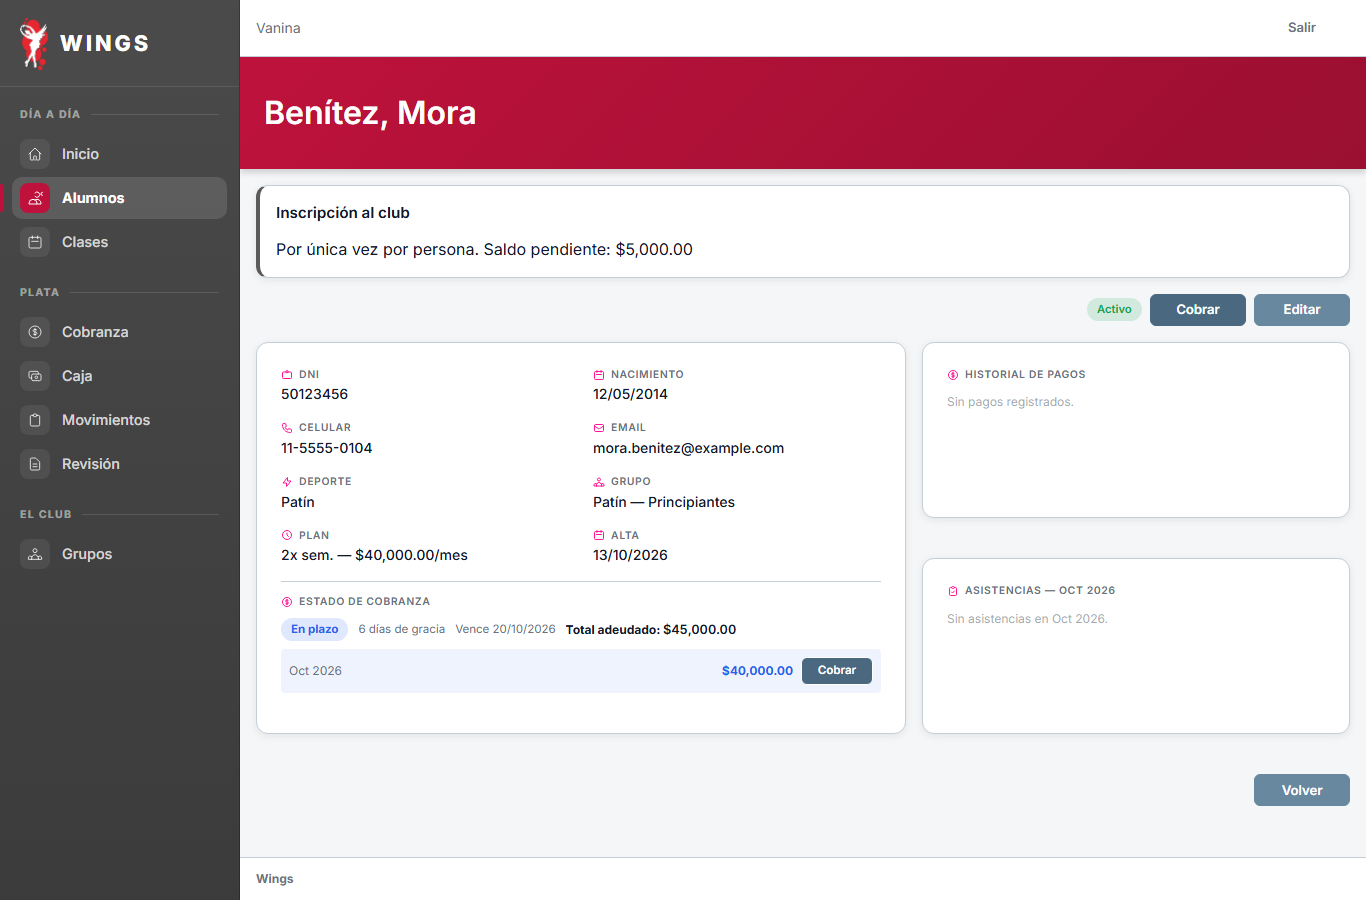
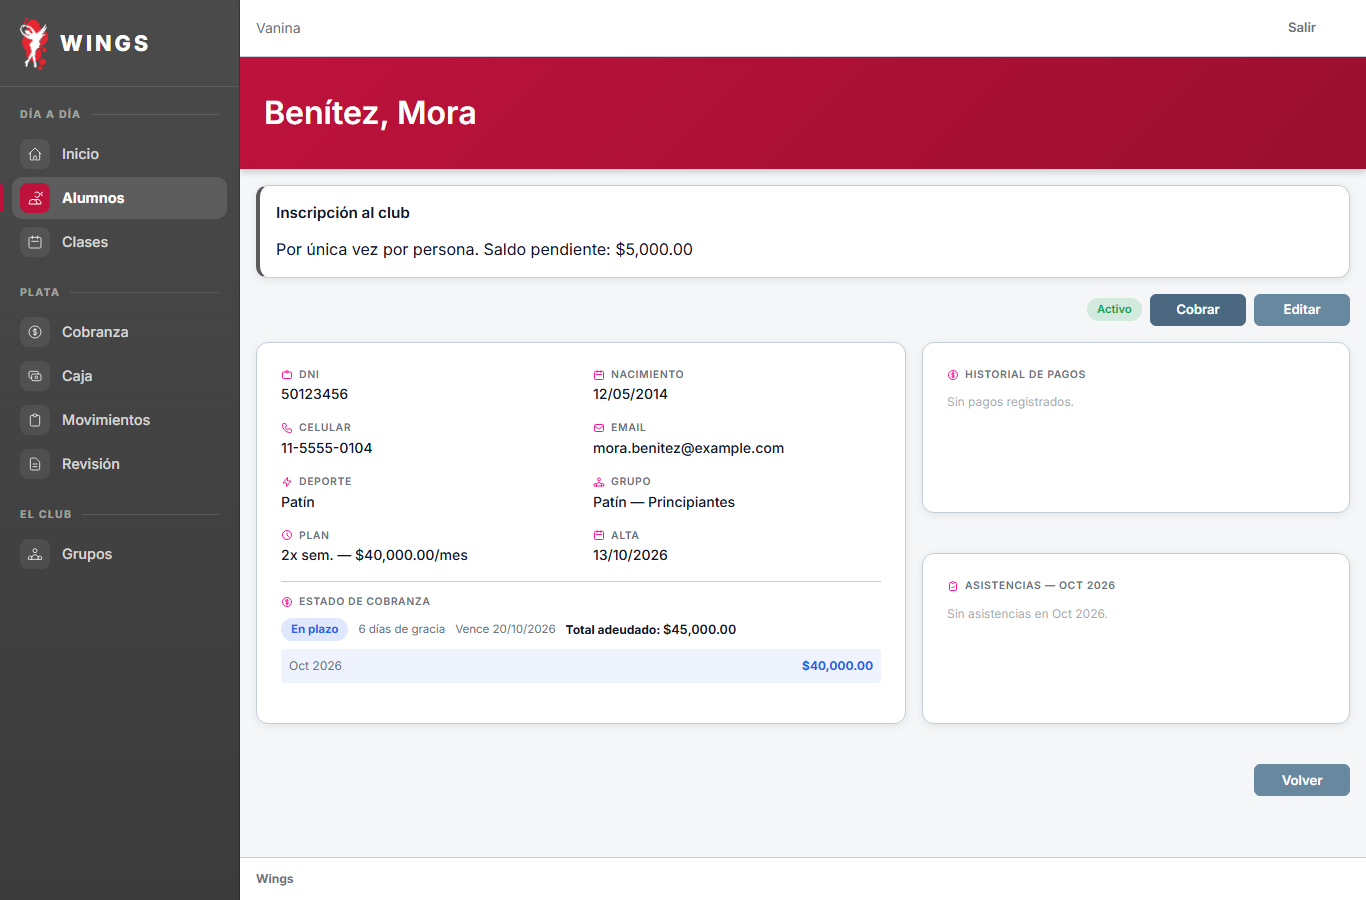
T78: un solo boton Cobrar en la ficha del alumno (Opcion A)
Diseno-autorizado: Carlos pidio T78 y Opcion A el 25/10 (un solo boton Cobrar arriba, sin repetir dentro del recuadro de cuota)

diff --git a/resources/views/alumnos/show.blade.php b/resources/views/alumnos/show.blade.php
@@ -208,18 +208,14 @@
                             {{ \App\Support\FormatoImporte::pesos($saldo) }}
                         </span>
                     </div>
-                    <div class="flex items-center gap-2 justify-end w-full sm:w-auto cobro-acciones-movil acciones-movil">
+                    @php
+                        $puedeCondonarCuota = Auth::user()->isAdmin() && $deuda->estado === \App\Models\DeudaCuota::ESTADO_PENDIENTE;
+                    @endphp
+                    <div class="{{ $puedeCondonarCuota ? 'flex' : 'hidden sm:flex' }} items-center gap-2 justify-end w-full sm:w-auto cobro-acciones-movil acciones-movil">
                         <span class="hidden sm:inline" style="font-size:0.75rem; font-weight:700; color:{{ $ecColor }}; white-space:nowrap;">
                             {{ \App\Support\FormatoImporte::pesos($saldo) }}
                         </span>
-                        @if(!auth()->user()?->isProfesor())
-                        <a href="{{ route('web.caja.cobrar', $alumno->id) }}"
-                           class="ds-btn-row"
-                           style="background:var(--color-btn-primary); color:var(--color-surface); text-decoration:none;">
-                            Cobrar
-                        </a>
-                        @endif
-                        @if(Auth::user()->isAdmin() && $deuda->estado === \App\Models\DeudaCuota::ESTADO_PENDIENTE)
+                        @if($puedeCondonarCuota)
                         <button type="button"
                                 class="ds-btn-row ds-btn-row--dang"
                                 data-abrir-condonar="{{ route('web.deudas.condonar', $deuda->id) }}">
@@ -245,20 +241,17 @@
                         @if((float) $cargo->monto_condonado > 0) · Condonado: {{ \App\Support\FormatoImporte::pesos($cargo->monto_condonado) }} @endif
                     </p>
                 </div>
+                @if(Auth::user()->isAdmin() && ((float) $cargo->monto_condonado > 0 || $cargo->saldo_pendiente > 0))
                 <div class="flex justify-end items-center gap-2 cobro-acciones-movil acciones-movil">
-                    @if($cargo->saldo_pendiente > 0)
-                    <a href="{{ route('web.caja.cobrar', $alumno->id) }}" class="ds-btn-row ds-btn-row--sec">Cobrar</a>
-                    @endif
-                    @if(Auth::user()->isAdmin())
-                        @if((float) $cargo->monto_condonado > 0)
-                        <button type="button" class="ds-btn-row ds-btn-row--sec"
-                                data-abrir-reactivar="{{ route('web.punitorios.reactivar', $cargo->id) }}">Reactivar</button>
-                        @elseif($cargo->saldo_pendiente > 0)
-                        <button type="button" class="ds-btn-row ds-btn-row--dang"
-                                data-abrir-condonar="{{ route('web.punitorios.condonar', $cargo->id) }}">Condonar</button>
-                        @endif
+                    @if((float) $cargo->monto_condonado > 0)
+                    <button type="button" class="ds-btn-row ds-btn-row--sec"
+                            data-abrir-reactivar="{{ route('web.punitorios.reactivar', $cargo->id) }}">Reactivar</button>
+                    @elseif($cargo->saldo_pendiente > 0)
+                    <button type="button" class="ds-btn-row ds-btn-row--dang"
+                            data-abrir-condonar="{{ route('web.punitorios.condonar', $cargo->id) }}">Condonar</button>
                     @endif
                 </div>
+                @endif
             </div>
             @endforeach
         </div>

diff --git a/tests/Feature/DetalleCajaCanceladoYFichaAltaT78Test.php b/tests/Feature/DetalleCajaCanceladoYFichaAltaT78Test.php
@@ -178,22 +178,27 @@ class DetalleCajaCanceladoYFichaAltaT78Test extends TestCase
         $totalFormateado = FormatoImporte::pesos((float) $filaCobranza->deuda_total);
 
         // Alta 13/10 + 7 días de plazo de alta = vence el 20/10/2026; total = $45,000.00.
-        $this->actingAs($this->operativo)
-            ->get(route('web.alumnos.show', $mora->id))
+        // Opción A (Carlos 25/10): un solo botón Cobrar en la barra superior, sin repetir dentro del recuadro de cuota.
+        $respuestaOperativo = $this->actingAs($this->operativo)
+            ->get(route('web.alumnos.show', $mora->id));
+        $respuestaOperativo
             ->assertOk()
             ->assertSee('En plazo')
             ->assertSee('6 días de gracia')
             ->assertSee('Vence 20/10/2026')
             ->assertSee('Total adeudado:')
             ->assertSee($totalFormateado);
+        $this->assertSame(1, substr_count($respuestaOperativo->getContent(), route('web.caja.cobrar', $mora->id)));
 
-        $this->actingAs($this->admin)
-            ->get(route('web.alumnos.show', $mora->id))
+        $respuestaAdmin = $this->actingAs($this->admin)
+            ->get(route('web.alumnos.show', $mora->id));
+        $respuestaAdmin
             ->assertOk()
             ->assertSee('En plazo')
             ->assertSee('Vence 20/10/2026')
             ->assertSee('Total adeudado:')
             ->assertSee($totalFormateado);
+        $this->assertSame(1, substr_count($respuestaAdmin->getContent(), route('web.caja.cobrar', $mora->id)));
     }
 
     public function test_un_alumno_al_dia_no_muestra_vencimiento_ni_total(): void

diff --git a/docs/00-estado/LOG-GEMINI.md b/docs/00-estado/LOG-GEMINI.md
@@ -15,8 +15,8 @@ no son nuevas verificaciones ni nuevas firmas del agente resumido.
 - **Objetivo y resultado:** Implementación de **T78** pedida por Carlos el 25/10/2026 a partir de los Días 4 y 5 de PRU-04. Resultado: **IMPLEMENTADA Y EN `a_verificar`**, con 3 pruebas automatizadas nuevas en `DetalleCajaCanceladoYFichaAltaT78Test` y suite rápida completa en verde.
 - **Cambios realizados:**
   - **1. Motivo del cobro cancelado en Detalle de caja (`resources/views/caja/detalle.blade.php`):** En la columna `Alumno / Obs.` de cada movimiento cancelado se muestra debajo de la descripción tachada `Cancelado: <motivo_cancelacion>`, visible tanto para la operativa como para el dueño (`ADMIN`) en cajas abiertas, cerradas, validadas o rechazadas.
-  - **2. Vencimiento y total en la ficha del alumno nuevo (`app/Http/Controllers/AlumnoWebController.php` y `resources/views/alumnos/show.blade.php`):** `AlumnoWebController::show` obtiene el total adeudado desde `CobranzaEstadoService::saldoDeAlumnos` (mismo número que Cobranza, incluyendo inscripción única por DNI y cuotas) y la fecha de vencimiento en estado `En plazo` desde `limiteDeLaCuota` y `limiteDeAlta` de `CobranzaEstadoService` (sin recalcular en la vista). Para Mora Benítez (alta 13/10, inscripción `$5.000` y octubre `$40.000`) muestra `Vence 20/10/2026` y `Total adeudado: $45,000.00`. Un alumno `Al día` no muestra ni vencimiento ni total.
-- **Pruebas y evidencia:** `DetalleCajaCanceladoYFichaAltaT78Test` (3 aprobadas, 23 aserciones); suite rápida (`--exclude-group=lento`) en `wings_testing_gemini`: **920 aprobadas, 6 omitidas, 0 fallidas** (7.378 aserciones, 209,66 s, salida 0). 8 capturas reales en Chrome (1366 y 375 px) en `docs/06-pruebas/PRU-04/evidencia-t78/`. Informe en `docs/06-pruebas/PRU-04/IMPLEMENTACION-T78.md`.
+  - **2. Vencimiento, total y botón único Cobrar en la ficha (`app/Http/Controllers/AlumnoWebController.php` y `resources/views/alumnos/show.blade.php`):** `AlumnoWebController::show` obtiene el total adeudado desde `CobranzaEstadoService::saldoDeAlumnos` (mismo número que Cobranza, incluyendo inscripción única por DNI y cuotas) y la fecha de vencimiento en estado `En plazo` desde `limiteDeLaCuota` y `limiteDeAlta` de `CobranzaEstadoService` (sin recalcular en la vista). Para Mora Benítez (alta 13/10, inscripción `$5.000` y octubre `$40.000`) muestra `Vence 20/10/2026` y `Total adeudado: $45,000.00`. Un alumno `Al día` no muestra ni vencimiento ni total. Por pedido de Carlos (**Opción A**), se quitó el botón `Cobrar` repetido dentro de las filas de cuota y punitorio, dejando únicamente el botón `Cobrar` superior junto a `Activo` y `Editar`.
+- **Pruebas y evidencia:** `DetalleCajaCanceladoYFichaAltaT78Test` (3 aprobadas, 25 aserciones); suite rápida (`--exclude-group=lento`) en `wings_testing_gemini`: **920 aprobadas, 6 omitidas, 0 fallidas** (7.378 aserciones, 209,66 s, salida 0). 8 capturas reales en Chrome (1366 y 375 px) en `docs/06-pruebas/PRU-04/evidencia-t78/`. Informe en `docs/06-pruebas/PRU-04/IMPLEMENTACION-T78.md`.
 - **Próximo paso:** Visto bueno visual de Carlos sobre las capturas y verificación de lógica por otro agente.
 
 ## 2026-10-22 — LOG GEM CYE — Ejecución y contraste técnico del Día 4 (PRU-04)

diff --git a/docs/06-pruebas/PRU-04/IMPLEMENTACION-T78.md b/docs/06-pruebas/PRU-04/IMPLEMENTACION-T78.md
@@ -33,6 +33,7 @@
       - `Vence {{ $ecVencimiento->format('d/m/Y') }}` cuando `$ecVencimiento` está presente (`Vence 20/10/2026`).
       - `Total adeudado: {{ FormatoImporte::pesos($ecTotal) }}` con clase `ds-money ds-money--row` cuando `$ecTotal > 0` (`Total adeudado: $45,000.00`).
     - Un alumno `Al día` no muestra ni vencimiento ni total adeudado.
+    - **Ajuste visual pedido por Carlos (Opción A, 25/10/2026):** Se retiró el botón `Cobrar` duplicado que aparecía dentro del recuadro celeste de cada cuota (`$ecDeudas`) y de cada cargo punitorio (`$punitorios`), conservando un único botón `Cobrar` en la barra superior de acciones de la ficha (junto a `Activo` y `Editar`) y manteniendo los botones `Condonar` / `Reactivar` para `ADMIN`.
 
 ---
 
